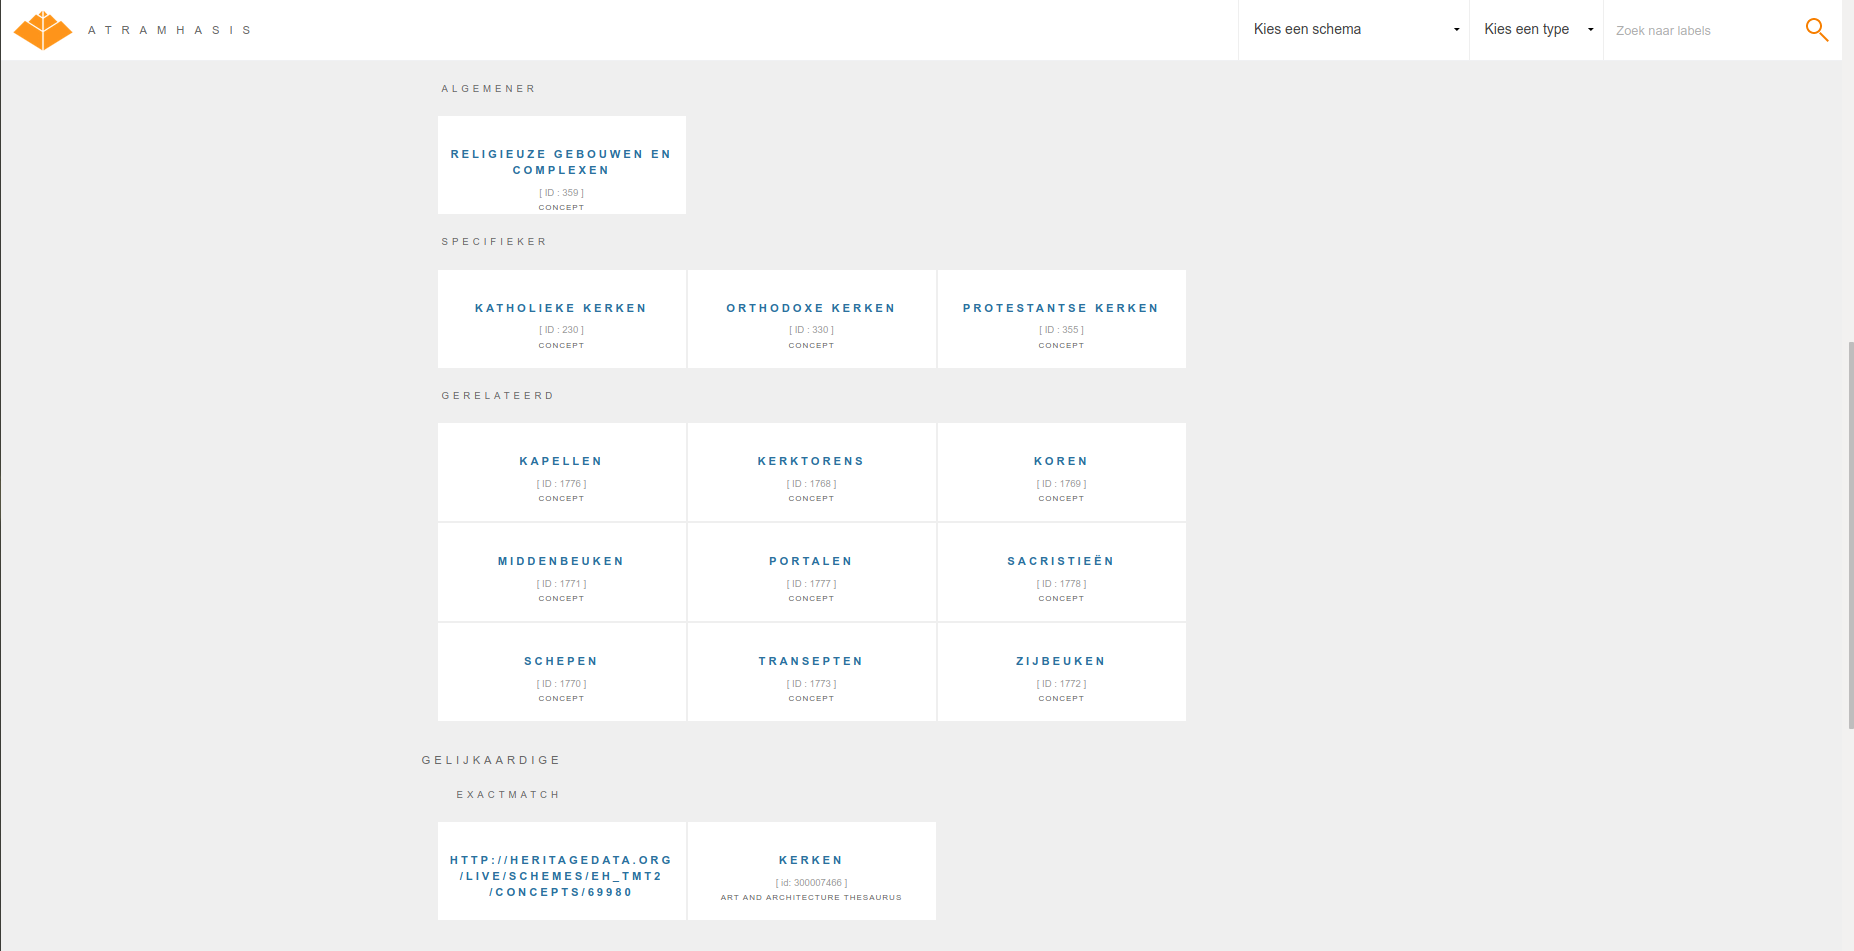
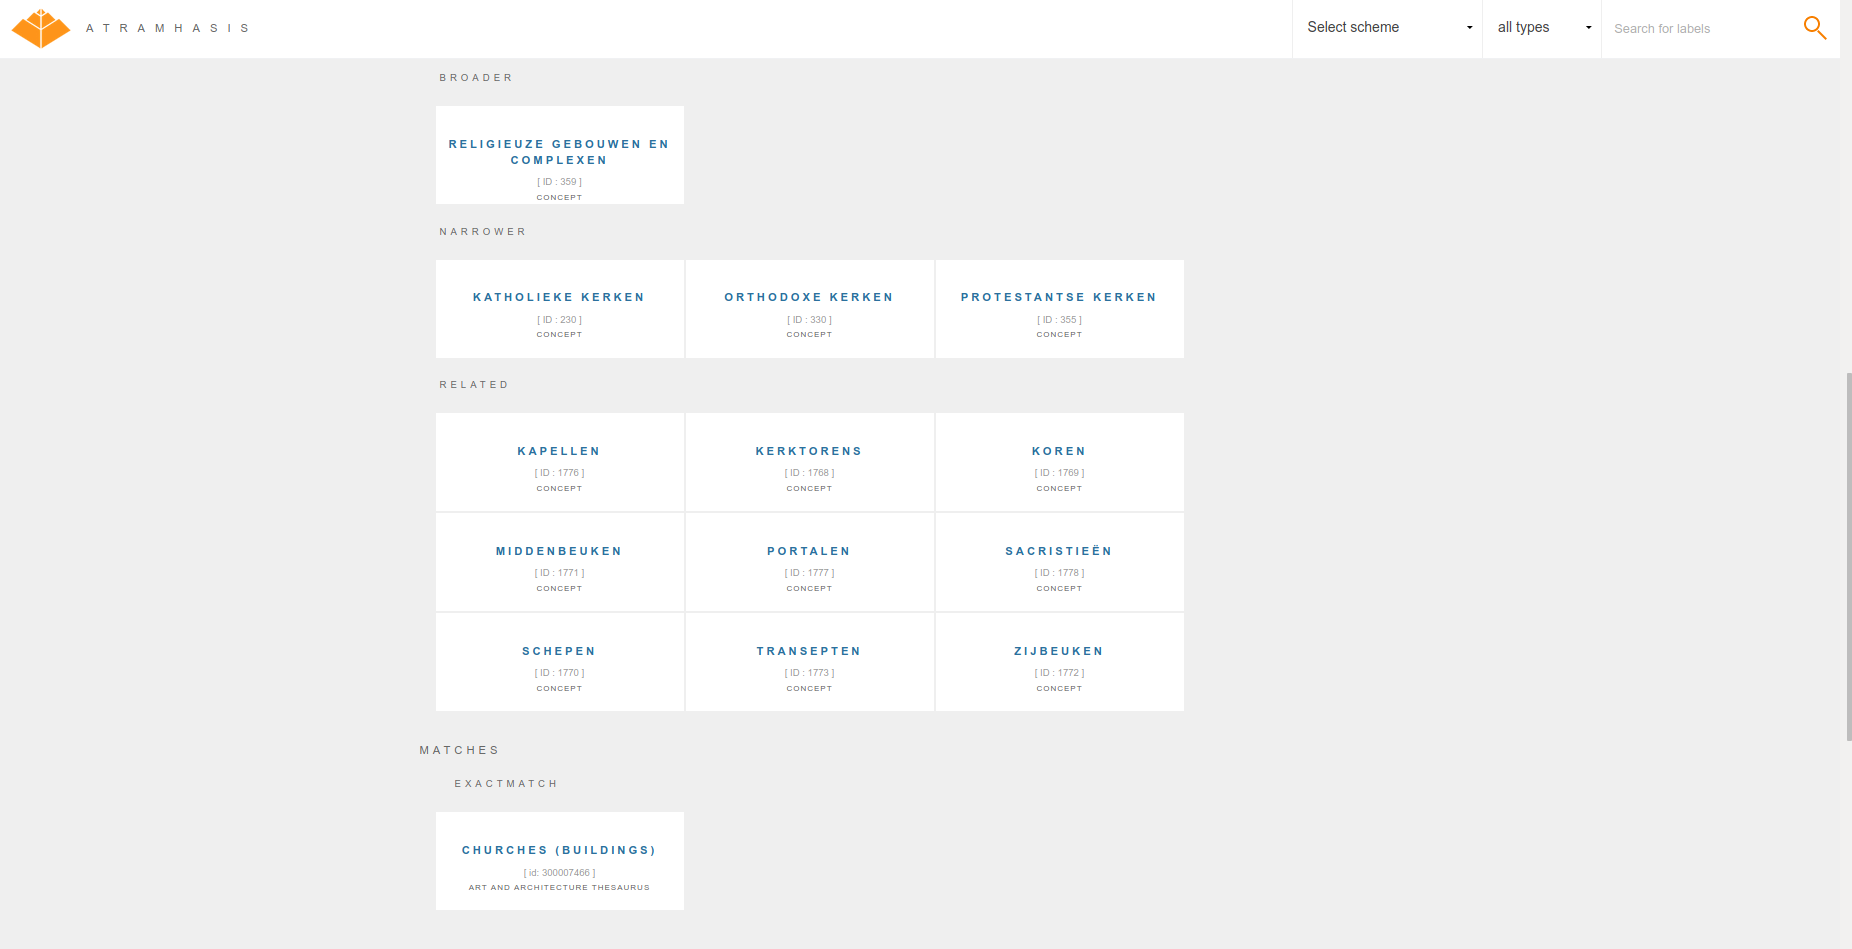
Update some screenshots to mutiple languages and add merge concept. Refs #440

diff --git a/docs/source/features.rst b/docs/source/features.rst
@@ -1,0 +1,116 @@
+.. _features:
+
+========
+Features
+========
+
+Public HTML interface
+=====================
+
+.. image:: images/atramhasis_home.png
+  :alt: The Atramhasis homepage
+
+When visiting the homepage of an Atramhasis instance, users are presented with
+a few different options. They can search for a certain label within a certain
+conceptscheme. Links are presented to all the conceptschemes present in the
+instance. For a list of (configurable) conceptschemes the most visited concepts
+are displayed for easy and quick access. Notice that by default Atramhasis
+comes with an English, French and Dutch public interface. Other languages can
+easily be added.
+
+.. image:: images/kerken_detail_en.png
+  :alt: A concept detail for churches
+
+A concept detail page details one concept or collection. It lists the concept's
+labels, notes and sources used in creating or researching the concept. Every
+concept has an id (an identifier within a conceptscheme) and a
+:term:`URI` that can be custom generated. For interoperability with other
+applications, every detail has both `RDF/XML` and `N3/Turtle` downloads
+available. As Atramhasis tries to take the user's preferred language settings
+into account, it will try to provide the title of the page in the user's
+preferred language, whilst also listing the labels separately.
+
+.. image:: images/kerken_detail_relaties.png
+  :alt: The relations for churches
+
+Scrolling further down on a detail page, we come to the relations between this
+concept or collection and other concepts or collections. All common :term:`SKOS` 
+relations (broader, narrower, related, member, ...) are accounted for. Links to
+other conceptschemes (suh as the AAT) are supported with :term:`SKOS` matches.
+
+.. image:: images/thesaurus_erfgoedtypes_boom.png
+  :alt: The tree of heritage types as seen on https://thesaurus.onroerenderfgoed.be
+
+While every detail page presents the immediate relations for a certain concept
+or collection, there's also a tree view available that presents all
+broader/narrower relations for all concepts and collections in one go. This can be 
+reached on the conceptscheme page or from every detail page. As can be seen
+here, an Atramhasis instance can easily be reskinned for a certain
+organisation. The `Flanders Heritage Thesaurus <https://thesaurus.onroerenderfgoed.be>`_ 
+is an Atramhasis implementation with custom styling and authentication.
+
+SKOS editor
+===========
+
+.. image:: images/admin_search.png
+  :alt: The Atramhasis admin interface
+
+The Atramhasis admin interface allows editors to find a certain concept or
+collection and edit or delete it. While it's also possiblel to edit
+conceptscheme attributes this way, they always need some code configuration and
+thus need to be created by a system administrator.
+
+.. image:: images/admin_import.png
+  :alt: Import a concept from the AAT
+
+While you can define concepts from scratch, it's also possible to import a
+concept from another thesaurus, such as the AAT. It will import labels and notes 
+from the original concept and add an automatic :term:`SKOS` match back to the
+original. Bear in mind that this actually creates a new concept with a new URI,
+while referencing the original. If you want to import an entire thesaurus, you
+need to go beyond the User Interface.
+
+.. image:: images/admin_kerken_notes.png
+  :alt: The notes tab on a concept
+
+Editing a concept or collection is done using one or more tabs, such as the
+notes tab to edit scopenotes, sourcenotes, ... Adding HTML markup is supported.
+
+.. image:: images/admin_kerken_relaties.png
+  :alt: The relations tab on a concept
+
+The relations tab allows editing the relations of concepts or collections with
+other concepts or collectons. Dropdown lists are present to facilitate editing.
+
+.. image:: images/admin_kerken_matches_tab.png
+  :alt: The matches tab on a concept
+
+The matches tab allows an editorto match a local concept to a concept in a
+remote conceptscheme.
+
+.. image:: images/admin_kerken_matches.png
+  :alt: Editing the matches on a concept
+
+Using the `skosprovider` that powers a remote conceptscheme, matching concepts
+can be searched for and added to the local concept.
+
+.. image:: images/admin_kerktorens_merge.png
+  :alt: Merging a concept with an external concept
+
+Once a concept has been matched with a concept from an external provider it's
+possible to merge the two concepts. This is similar to importing a concept, but
+works for concepts that already exist in your local thesaurus. Merging with
+copy the labels and notes from the external concept. If you can link you
+concept with an external concept that has labels for the concept in different
+languages, this is a quick way to extend the number of languages supported by
+your local concept. Before saving the results of the merge, you are free to
+review the results of the merge and accept or reject certain labels and notes.
+
+LDF server
+==========
+
+.. image:: images/ldf_server.png
+  :alt: The Atramhasis LDF server
+
+With a little bit of effort, Atramhasis can setup an LDF server for you,
+allowing you to quickly serve RDF tripples.
